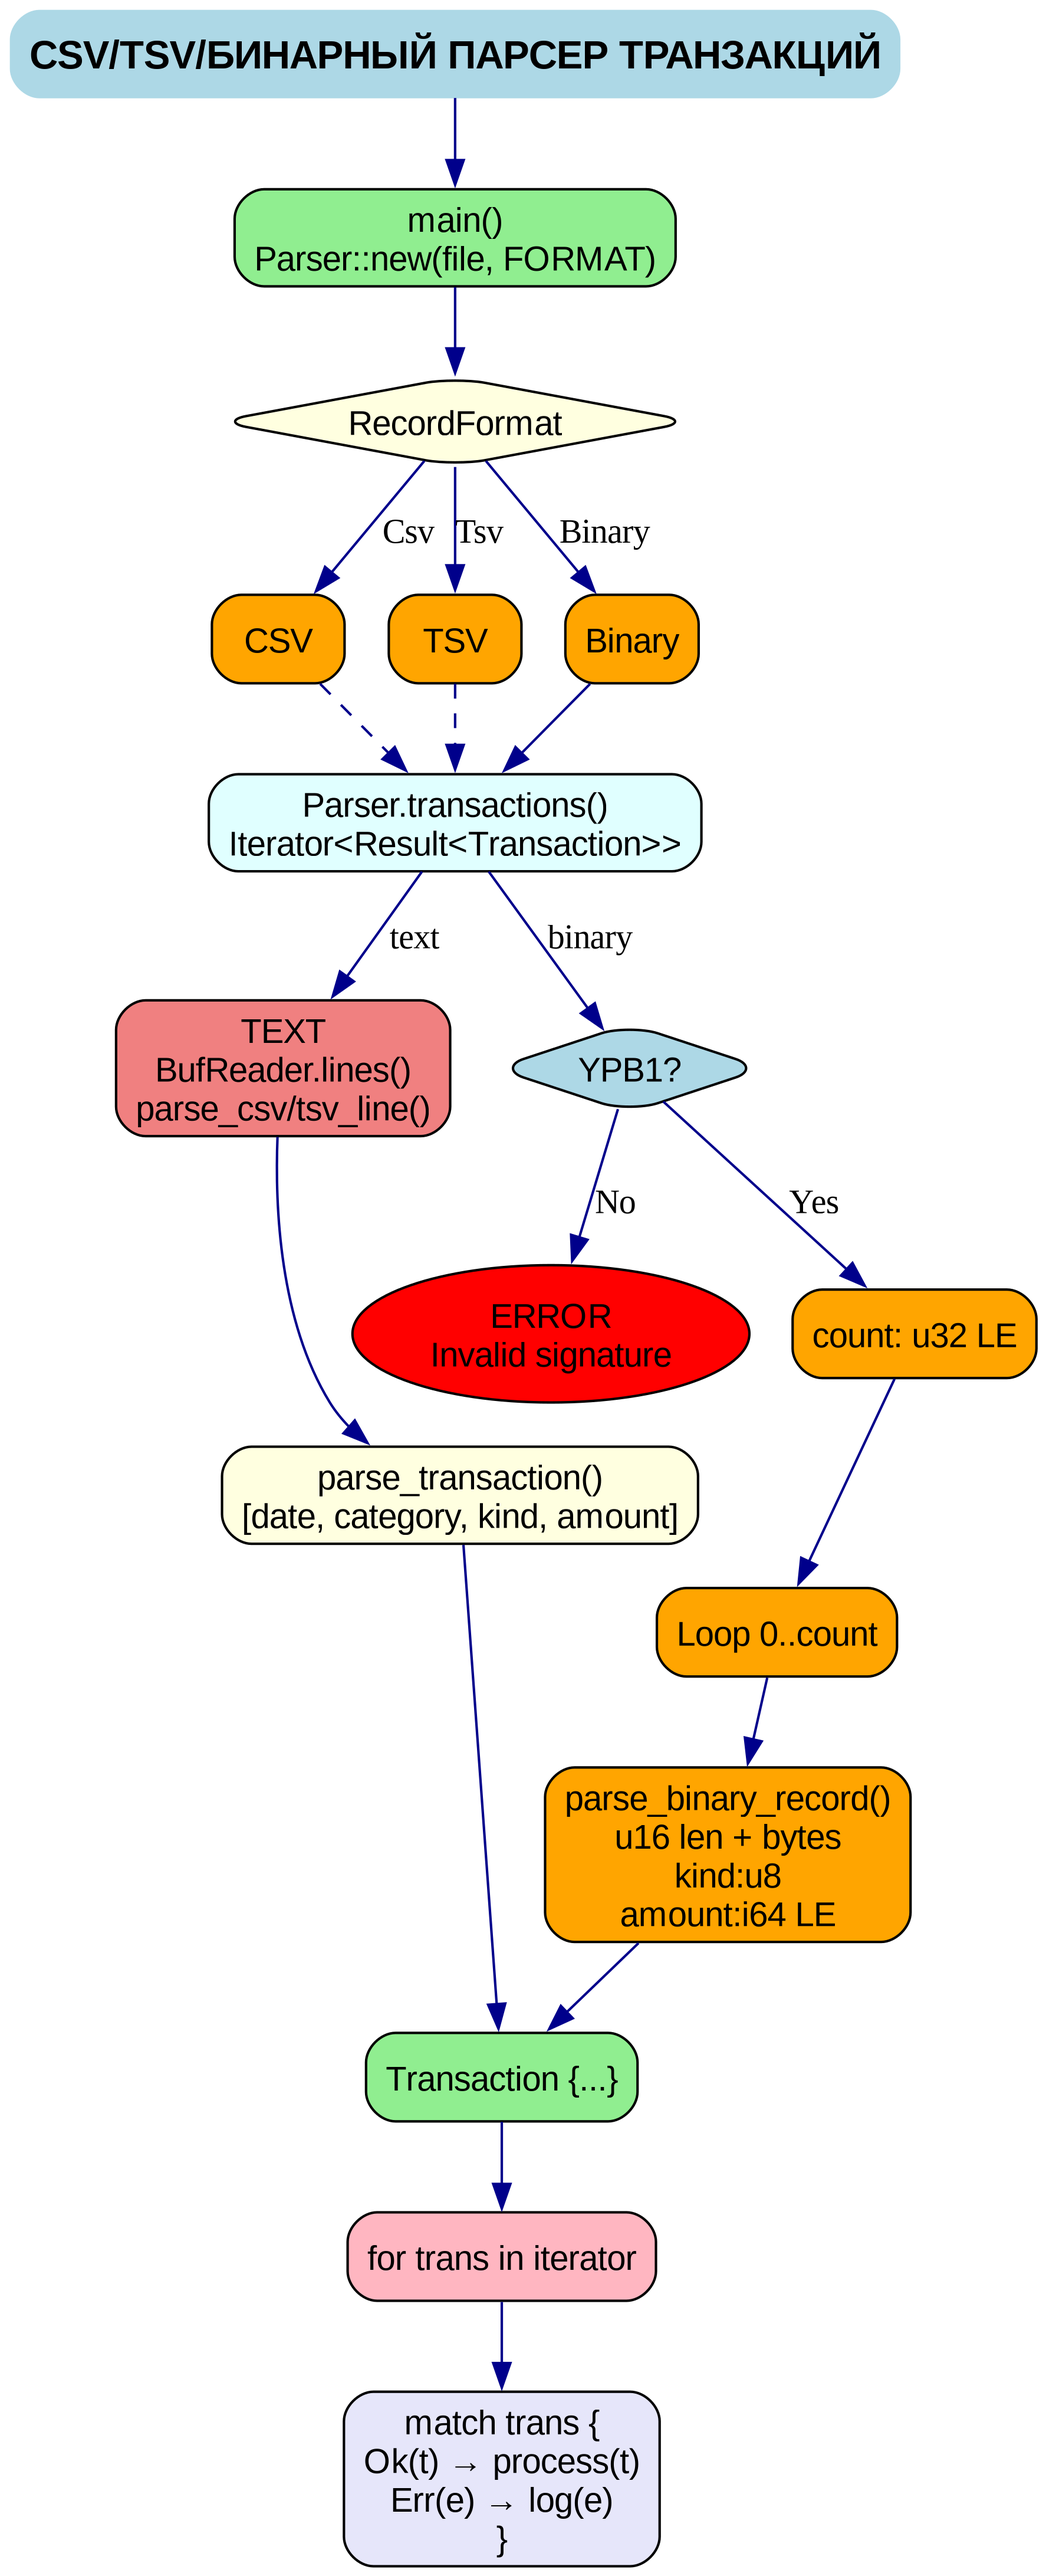
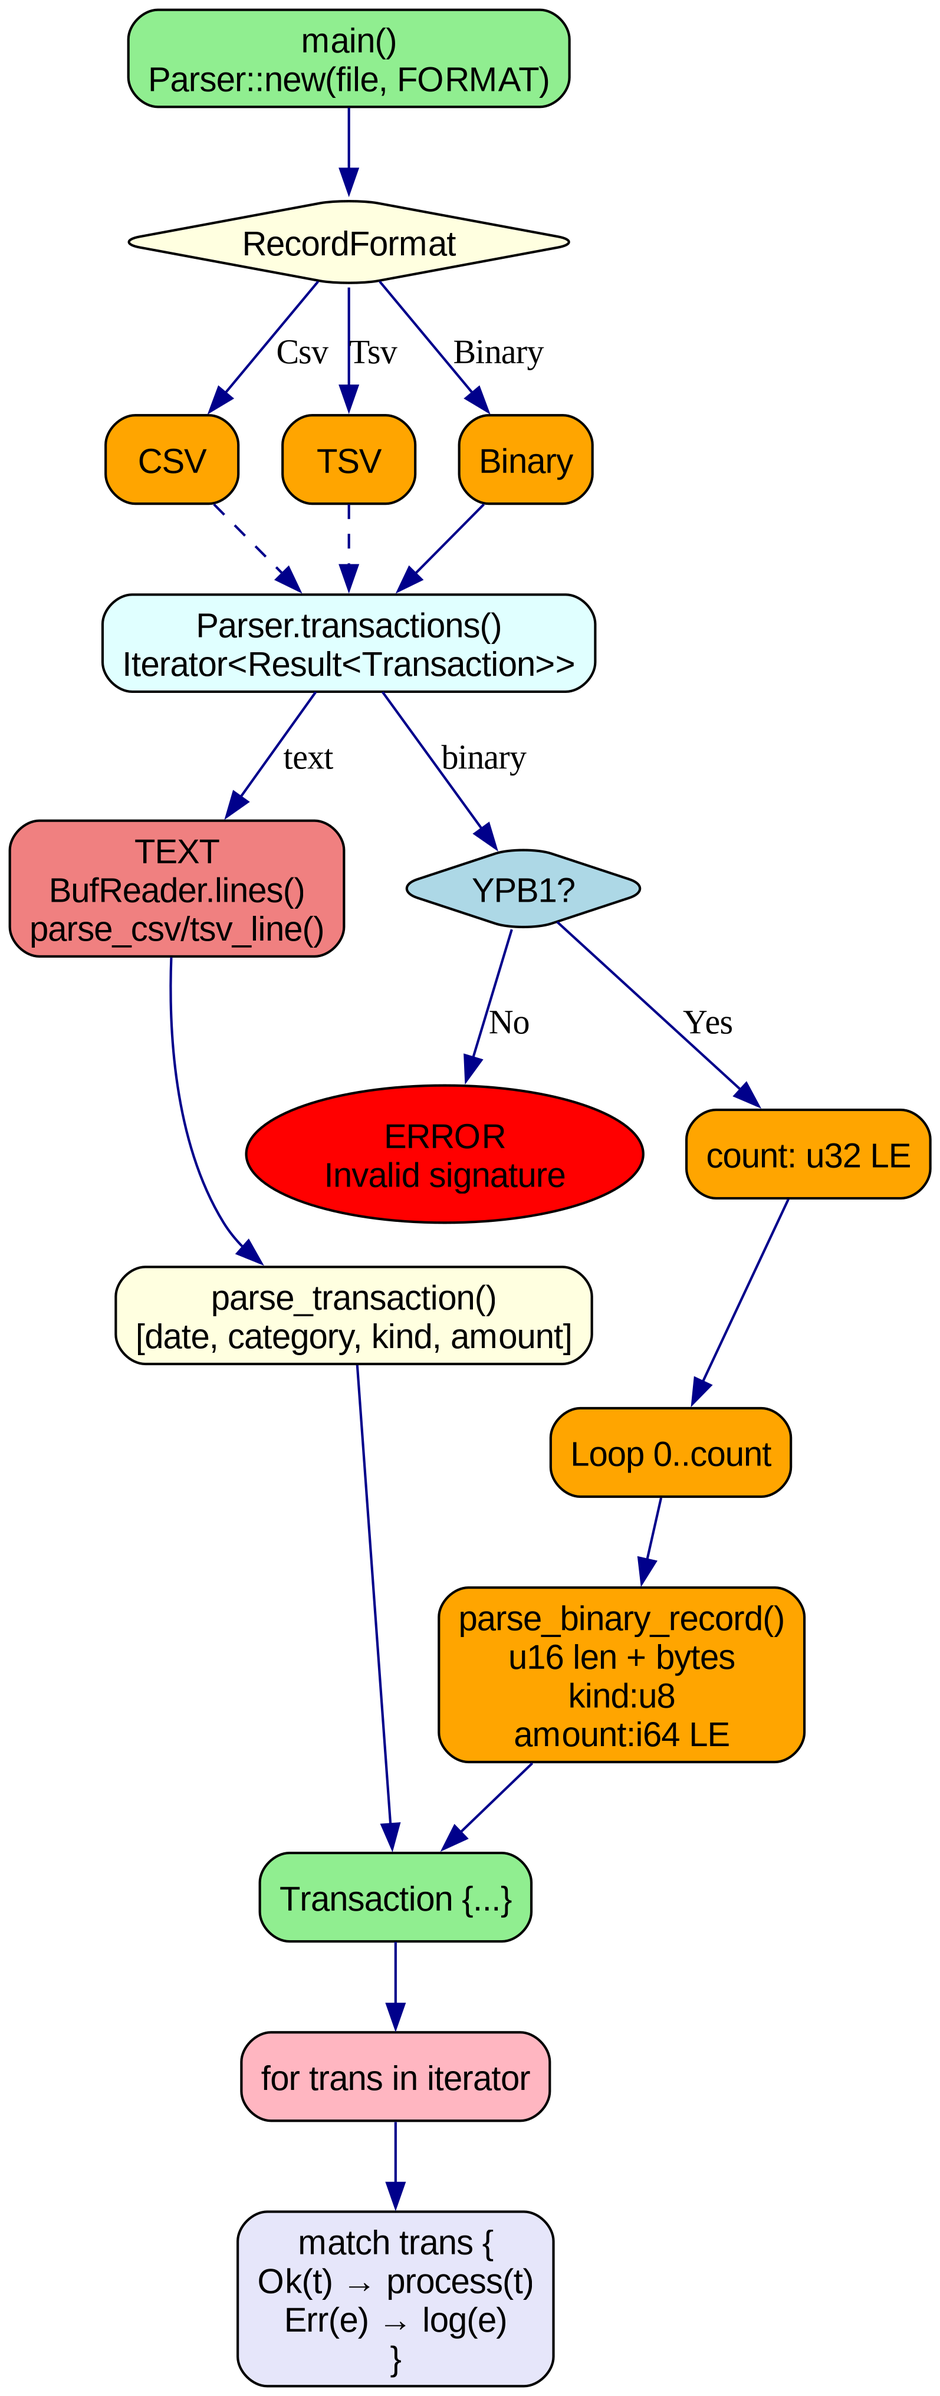
readme

diff --git a/README.md b/README.md
@@ -1,3 +1,90 @@
-# Расширяемый парсер файлов, содержащих список транзакций
+## Архитектура приложения: единый потоковый парсер с расширяемой поддержкой форматов
+
+Приложение реализовано как универсальный потоковый парсер транзакций с **абстрактным интерфейсом**, позволяющим добавлять новые форматы без изменения consumer-кода.
+
+### **Единый API для всех форматов**
+```rust
+let mut parser = Parser::new(file, RecordFormat::Csv);  // или Tsv, Binary
+for trans in parser.transactions() {
+    match trans {
+        Ok(t) => process(t),  // Один код для всех!
+        Err(e) => log(e),
+    }
+}
+```
+**Consumer не знает о формате** — всегда получает `Iterator<Result<Transaction, Error>>`.
+
+### **Логика работы (Core Flow)**
+
+1. **Инициализация**: `Parser::new(reader, format)`
+   - Создаёт `BufReader<R>`
+   - Сохраняет `format: RecordFormat` для диспетчеризации
+
+2. **Запуск итератора**: `parser.transactions() → ParserTransactions`
+   ```rust
+   impl Iterator for ParserTransactions {
+       fn next(&mut self) → Option<Result<Transaction, ParseError>> {
+           match self.parser.format {
+               Csv | Tsv  → self.next_text(),    // Текстовые ветки
+               Binary    → self.next_binary(),   // Бинарная ветка
+           }
+       }
+   }
+   ```
+
+3. **Диспетчеризация по формату** (расширяемость!):
 
 ![](docs/flow.png)
+
+4. **Парсинг → Transaction** (единая точка):
+   ```rust
+   fn parse_*_line/record(line/bytes) → Result<Transaction, Error>
+   ```
+   Все форматы **гарантированно возвращают** `Transaction {date, category, kind, amount}`.
+
+### **Расширяемость: добавление нового формата за 10 строк**
+
+```rust
+#[derive(Debug, Copy, Clone)]
+enum RecordFormat {
+    Csv, Tsv, Binary, JsonLines, // ← Новый!
+}
+
+impl<'a, R: Read> ParserTransactions<'a, R> {
+    fn next_json(&mut self) → Option<Result<Transaction, ParseError>> {
+        // serde_json::from_str(line) → Transaction
+        // или ручной парсер JSONL
+    }
+    
+    fn next(&mut self) → Option<Result<Transaction, Error>> {
+        match self.parser.format {
+            RecordFormat::JsonLines => self.next_json(),
+            // ... остальные
+        }
+    }
+}
+```
+
+**Преимущества**:
+- **Consumer неизменён** — `for trans in parser.transactions()`
+- **Добавление формата** = 1 enum вариант + 1 метод `next_*()`
+- **Ошибки унифицированы** — `ParseError` для всех
+- **Потоковость сохранена** — O(1) память для любого формата
+
+### **Внутренняя архитектура Parser**
+```rust
+pub struct Parser<R: Read> {
+    reader:   BufReader<R>,     // Универсальный источник
+    format:   RecordFormat,     // Диспетчер
+    buffer:   String,           // Для текста
+    line_num: usize,            // Для ошибок
+}
+```
+
+### **Почему это масштабируемо**
+1. **Декомпозиция**: `next() → next_format() → parse_format() → Transaction`
+2. **Плейсхолдеры**: Легко добавить `next_protobuf()`, `next_avro()`
+3. **Типобезопасность**: Компилятор гарантирует `Result<Transaction>`
+4. **Производительность**: Нативный парсинг, потоковый, без аллоков кроме результата
+
+**Итог**: **Архитектура "Strategy Pattern" через enum**: один интерфейс, бесконечные форматы, нулевые изменения в бизнес-логике! 
